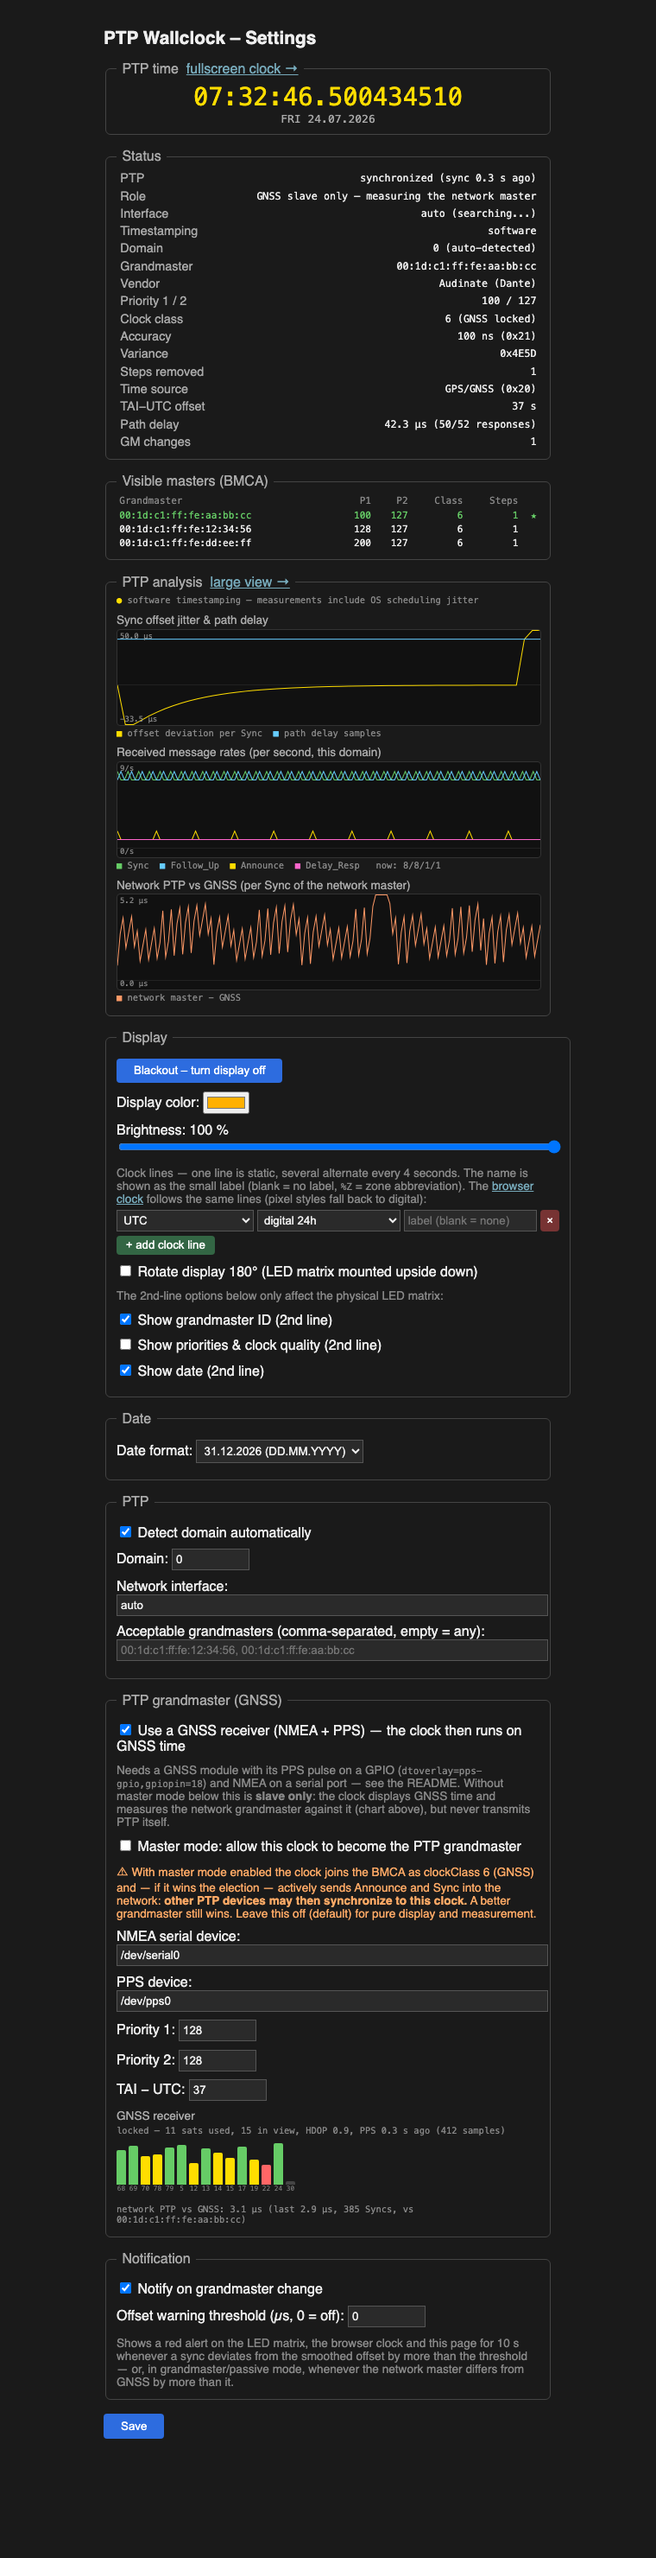
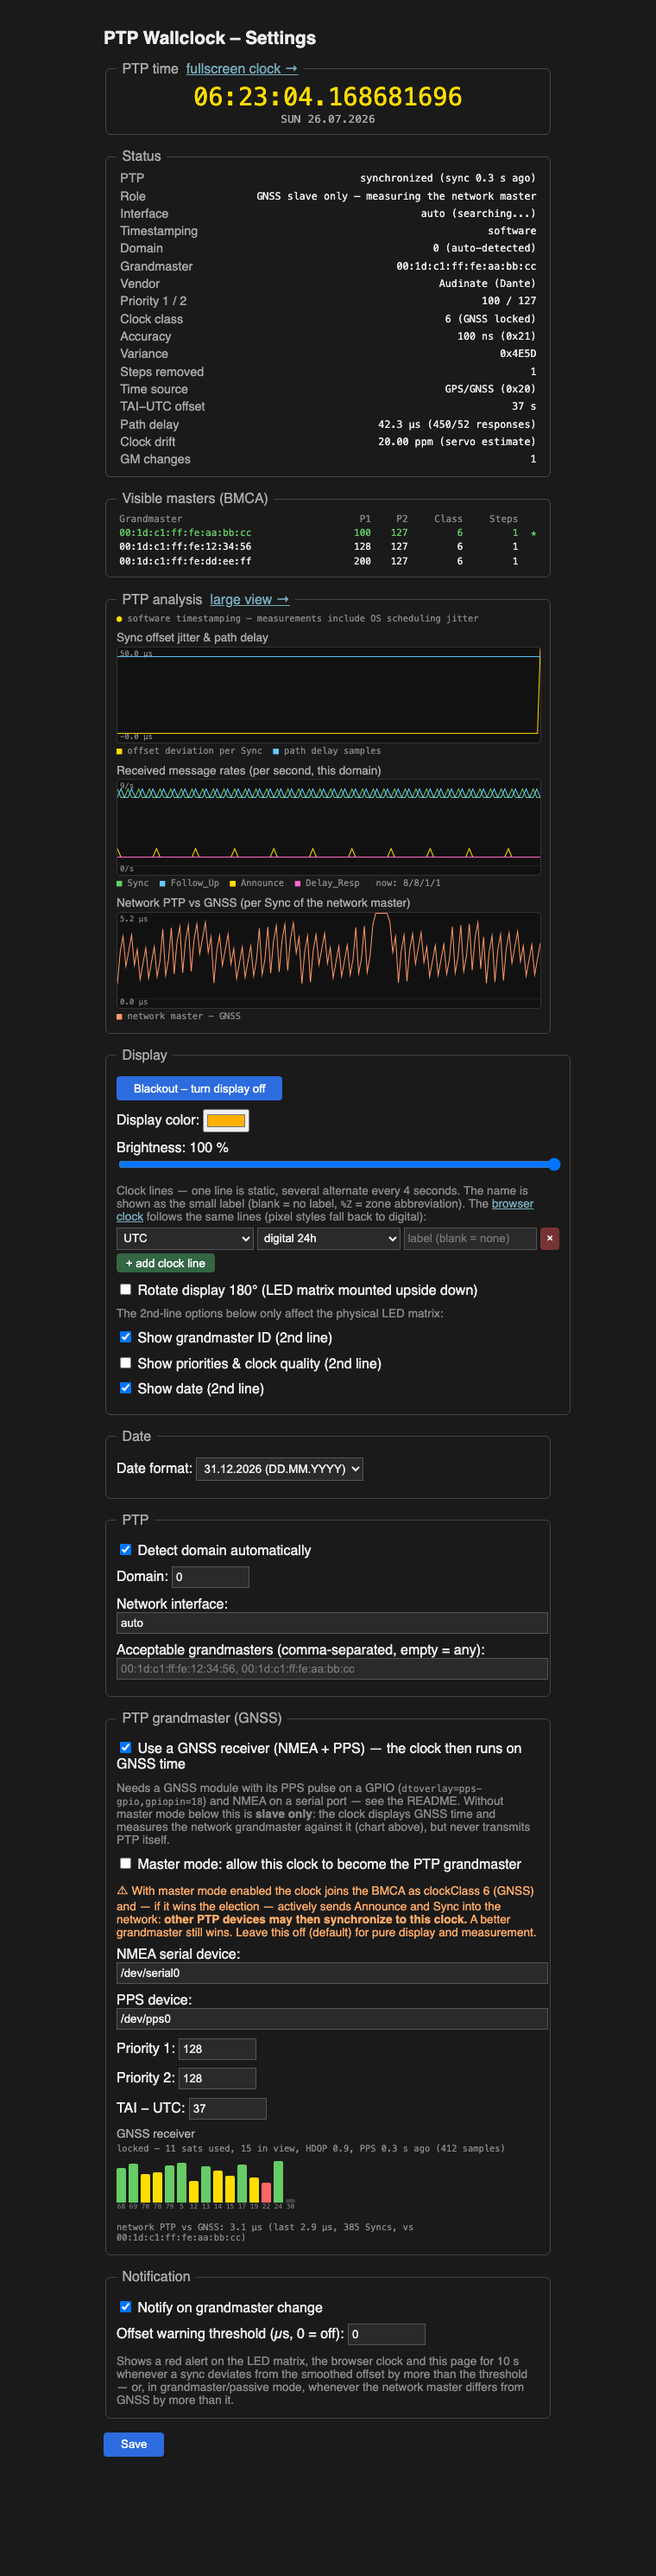
Clock servo: PI controller with frequency estimation
The offset-only EMA lagged behind the master by freq * time-constant —
~160 us with a typical 20 ppm Pi crystal, which would dominate the error
budget once hardware timestamps or GNSS provide us-clean samples. The
servo now tracks offset AND frequency: offset_at(t) extrapolates
frequency-corrected between samples (display, web TAI, master TX and
Delay_Resp all read it), steps keep the learned frequency, and the
estimate is shown as 'Clock drift' in the status panel. Verified in the
harness: a synthetic 20 ppm ramp converges to 20.00 ppm with -8 ns
residual over 400 samples.

Changed region(s): [[0.1816, 0.0311, 0.8474, 0.9635], [0.3026, 0.0311, 0.3329, 0.0622]]

diff --git a/ptp-clock.cpp b/ptp-clock.cpp
@@ -290,7 +290,18 @@ static uint16_t g_dreq_seq = 0;
 static bool g_have_mpd = false;
 static int64_t g_mpd_ns = 0;              // mean path delay (EMA)
 static bool g_have_offset = false;
-static int64_t g_offset_ns = 0;           // local(mono) - master(TAI), EMA
+static int64_t g_offset_ns = 0;           // legacy mirror: servo offset at
+                                          // the last reference time
+
+// Clock servo (PI): offset AND frequency of the local timing clock vs
+// the master. Written by the main thread, read from any thread; the
+// three values are stored as independent atomics — a torn read across
+// an update mixes two states that differ by nanoseconds, which is fine.
+static std::atomic<long long> g_srv_off{0};          // offset at t_ref, ns
+static std::atomic<unsigned long long> g_srv_tref{0};  // local ref time
+static std::atomic<double> g_srv_freq{0.0};   // local freq error, fraction
+static const double kServoKp = 0.12;          // phase gain per sample
+static const double kServoKi = 0.02;          // frequency gain per sample
 
 static uint8_t g_clock_id[8] = {0};       // our clockIdentity (EUI-64 from MAC)
 
@@ -408,6 +419,18 @@ static uint64_t local_clock_ns() {
     }
 #endif
     return mono_ns();
+}
+
+// Servo readout: offset of the local timing clock vs master TAI at local
+// time t, extrapolated with the estimated frequency error.
+// master = local - offset_at(local)
+static int64_t offset_at(uint64_t t_local) {
+    long long off = g_srv_off.load(std::memory_order_relaxed);
+    unsigned long long tref = g_srv_tref.load(std::memory_order_relaxed);
+    if (!tref)
+        return off;
+    double f = g_srv_freq.load(std::memory_order_relaxed);
+    return off + (int64_t)(f * (double)(int64_t)(t_local - tref));
 }
 
 static uint64_t be_bytes(const uint8_t *p, int n) {
@@ -709,6 +732,10 @@ static void reset_ptp_state() {
     g_cmp_target_valid = false;
     g_cmp_have = false;
     g_cmp_count = 0;
+    g_srv_off = 0;
+    g_srv_tref = 0;
+    g_srv_freq = 0.0;
+    g_offset_ns = 0;
     g_offset_warn_mono = 0;
     g_active_domain = -1;
     g_last_announce_mono_ns = 0;
@@ -891,11 +918,17 @@ static void format_signed_offset(char *out, size_t n, long long ns) {
         snprintf(out, n, "%+.1fus", us);
 }
 
-// A (t1, t2) pair is complete: update the offset estimate.
+// A (t1, t2) pair is complete: feed the clock servo.
 // local = master + offset  =>  offset = t2 - t1 - meanPathDelay
 // wire=false marks a GNSS sample (grandmaster mode). While GNSS drives
 // the clock, wire pairs are not used for discipline — they are measured
 // AGAINST the GNSS reference instead (positive = network master ahead).
+//
+// The servo is a small PI controller: it tracks not just the offset but
+// also the local oscillator's frequency error, so a plain crystal's ppm
+// error no longer produces a standing lag (offset-only smoothing lags by
+// freq * time constant — ~160 us for 20 ppm), and the displayed time
+// runs frequency-corrected between samples.
 static void complete_sync_pair(int64_t t1, int64_t t2, bool wire = true) {
     g_last_t1 = t1;
     g_last_t2 = t2;
@@ -906,7 +939,7 @@ static void complete_sync_pair(int64_t t1, int64_t t2, bool wire = true) {
     if (wire && g_role.load() >= ROLE_GM_PASSIVE) {
         if (!g_have_offset)
             return;                       // no GNSS reference yet
-        int64_t d = g_offset_ns - sample; // wire master - GNSS, ns
+        int64_t d = offset_at((uint64_t)t2) - sample;  // master - GNSS
         offset_warn_check(d);
         if (!g_cmp_have) {
             g_cmp_ns = d;
@@ -922,21 +955,37 @@ static void complete_sync_pair(int64_t t1, int64_t t2, bool wire = true) {
         return;
     }
 
-    // Analysis history: how far this sync was off the smoothed estimate
+    int64_t pred = offset_at((uint64_t)t2);
+    int64_t e = sample - pred;            // prediction error of the servo
+    int64_t dt = t2 - (int64_t)g_srv_tref.load(std::memory_order_relaxed);
+
     if (g_have_offset)
-        offset_warn_check(sample - g_offset_ns);
+        offset_warn_check(e);
     {
+        // Analysis history: how far this sync was off the prediction
         std::lock_guard<std::mutex> lock(g_mutex);
         hist_push(g_hist_off, g_hist_off_n, g_hist_off_i,
-                  g_have_offset ? sample - g_offset_ns : 0);
+                  g_have_offset ? e : 0);
     }
-    if (!g_have_offset || llabs(sample - g_offset_ns) > 100000000LL) {
-        g_offset_ns = sample;             // first sample or step: jump
+
+    if (!g_have_offset || llabs(e) > 100000000LL || dt <= 0 ||
+        dt > 60000000000LL) {
+        // First sample, step, or stale reference: jump the phase, keep
+        // the frequency estimate (the oscillator didn't change)
+        g_srv_off = sample;
+        g_srv_tref = (uint64_t)t2;
         g_have_offset = true;
     } else {
-        g_offset_ns += (sample - g_offset_ns) / 8;
+        double freq = g_srv_freq.load(std::memory_order_relaxed);
+        freq += kServoKi * (double)e / (double)dt;
+        if (freq > 500e-6) freq = 500e-6;
+        if (freq < -500e-6) freq = -500e-6;
+        g_srv_freq = freq;
+        g_srv_off = pred + (int64_t)(kServoKp * (double)e);
+        g_srv_tref = (uint64_t)t2;
     }
-    g_offset_atomic = g_offset_ns;
+    g_offset_ns = g_srv_off.load();       // legacy mirrors (offset at the
+    g_offset_atomic = g_offset_ns;        // reference time)
     g_last_sync_mono_ns = (uint64_t)t2;
     g_last_sync_age_ns = mono_ns();       // housekeeping clock, not t2:
     have_ptp_ref = true;                  // t2 may be PHC time (hw mode)
@@ -1882,7 +1931,8 @@ static std::string status_json() {
     // Current PTP time (TAI), split so the values stay exact in JS doubles
     long long tai_sec = -1, tai_nsec = 0;
     if (have_ptp_ref) {
-        long long tai = (long long)local_clock_ns() - g_offset_atomic.load();
+        uint64_t now_local = local_clock_ns();
+        long long tai = (long long)now_local - offset_at(now_local);
         if (tai > 0) {
             tai_sec = tai / 1000000000LL;
             tai_nsec = tai % 1000000000LL;
@@ -1944,6 +1994,7 @@ static std::string status_json() {
       << "\"time_source\":" << (int)g_gm.time_source << ","
       << "\"utc_offset\":" << current_utc_offset << ","
       << "\"path_delay_ns\":" << g_path_delay_ns.load() << ","
+      << "\"freq_ppb\":" << (long long)(g_srv_freq.load() * 1e9) << ","
       << "\"dreq_sent\":" << g_dreq_sent.load() << ","
       << "\"dresp_received\":" << g_dresp_received.load() << ","
       << "\"gm_changes\":" << g_gm_changes << ","
@@ -2073,6 +2124,7 @@ static const char *kIndexHtml = R"HTML(<!DOCTYPE html>
  <tr><td>Time source</td><td id="s_src">&ndash;</td></tr>
  <tr><td>TAI&minus;UTC offset</td><td id="s_off">&ndash;</td></tr>
  <tr><td>Path delay</td><td id="s_delay">&ndash;</td></tr>
+ <tr><td>Clock drift</td><td id="s_drift">&ndash;</td></tr>
  <tr><td>GM changes</td><td id="s_changes">0</td></tr>
 </table>
 </fieldset>
@@ -2695,6 +2747,9 @@ async function poll() {
         : s.dreq_sent > 0
           ? 'no response (' + s.dreq_sent + ' requests)'
           : '–');
+    set('s_drift', s.have_ptp
+        ? (s.freq_ppb / 1000).toFixed(2) + ' ppm (servo estimate)'
+        : '–');
     set('s_changes', s.gm_changes);
     if (s.blackout !== blackout) {
       blackout = s.blackout;             // changed from another browser
@@ -3590,7 +3645,7 @@ int main(int argc, char **argv) {
                 if (g_role.load() == ROLE_GM_ACTIVE && (buf[1] & 0x0F) == 2 &&
                     domain_ok(buf[4], false) && ts != 0) {
                     uint8_t resp[54];
-                    build_delay_resp(resp, buf, (int64_t)ts - g_offset_ns);
+                    build_delay_resp(resp, buf, (int64_t)ts - offset_at(ts));
                     for (const auto &j : joined) {
                         in_addr mif{};
                         mif.s_addr = j.ip;
@@ -3832,7 +3887,7 @@ int main(int argc, char **argv) {
                     drain_errqueue(sock_sync);
 #endif
                 uint64_t ta = local_clock_ns();
-                build_sync(sync, g_sync_seq, (int64_t)ta - g_offset_ns);
+                build_sync(sync, g_sync_seq, (int64_t)ta - offset_at(ta));
                 if (sendto(sock_sync, sync, sizeof(sync), 0,
                            (struct sockaddr *)&dreq_dst,
                            sizeof(dreq_dst)) != (ssize_t)sizeof(sync))
@@ -3845,7 +3900,7 @@ int main(int argc, char **argv) {
 #endif
                 if (!t1)
                     t1 = ta + (tb - ta) / 2;
-                build_follow_up(fup, g_sync_seq, (int64_t)t1 - g_offset_ns);
+                build_follow_up(fup, g_sync_seq, (int64_t)t1 - offset_at(t1));
                 sendto(sock_general, fup, sizeof(fup), 0,
                        (struct sockaddr *)&gen_dst, sizeof(gen_dst));
             }
@@ -3937,7 +3992,8 @@ int main(int argc, char **argv) {
         }
 
         // --- Smooth time: master(TAI) = local(mono) - offset ---
-        int64_t display_signed = (int64_t)local_clock_ns() - g_offset_ns;
+        uint64_t frame_local = local_clock_ns();
+        int64_t display_signed = (int64_t)frame_local - offset_at(frame_local);
         if (display_signed < 0)
             display_signed = 0;
         uint64_t display_ns = (uint64_t)display_signed;

diff --git a/README.md b/README.md
@@ -365,9 +365,15 @@ to force software timestamps.
 
 Without a PHC, packets are timestamped in user space and the achievable
 accuracy is in the sub-millisecond range — plenty for a wall clock
-display, but this is a visualization tool, not a reference clock. In both
-modes Sync/Follow_Up and Delay_Resp measurements are smoothed with a
-small exponential filter. Note that the LED refresh and the browser
+display, but this is a visualization tool, not a reference clock.
+
+The clock is disciplined by a small **PI servo** that estimates offset
+*and* the local oscillator's frequency error (shown as "Clock drift" in
+the status panel): a plain crystal's ppm error no longer causes a
+standing lag behind the master (offset-only smoothing lags by
+freq × time-constant — ~160 µs at 20 ppm), and the displayed time runs
+frequency-corrected between correction samples. Delay_Resp measurements
+are smoothed with a small exponential filter. Note that the LED refresh and the browser
 rendering add their own few milliseconds — hardware timestamping makes
 the *measurements* honest (visible in the PTP analysis charts), not the
 photons faster.
